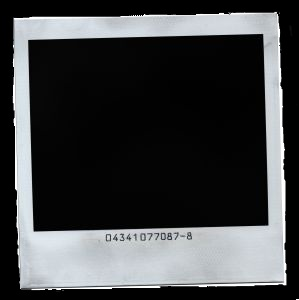
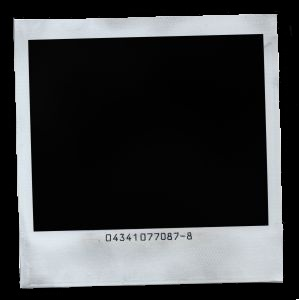
corrections diverses

diff --git a/public/stylesheets/style.css b/public/stylesheets/style.css
@@ -166,6 +166,7 @@ div.last-picture img{
   width: 235px;
    
   -moz-transform:rotate(-1.8deg); 
+  -webkit-transform: rotate(-1.8deg); 
 }
 .comments{
   margin-left: 3em;
